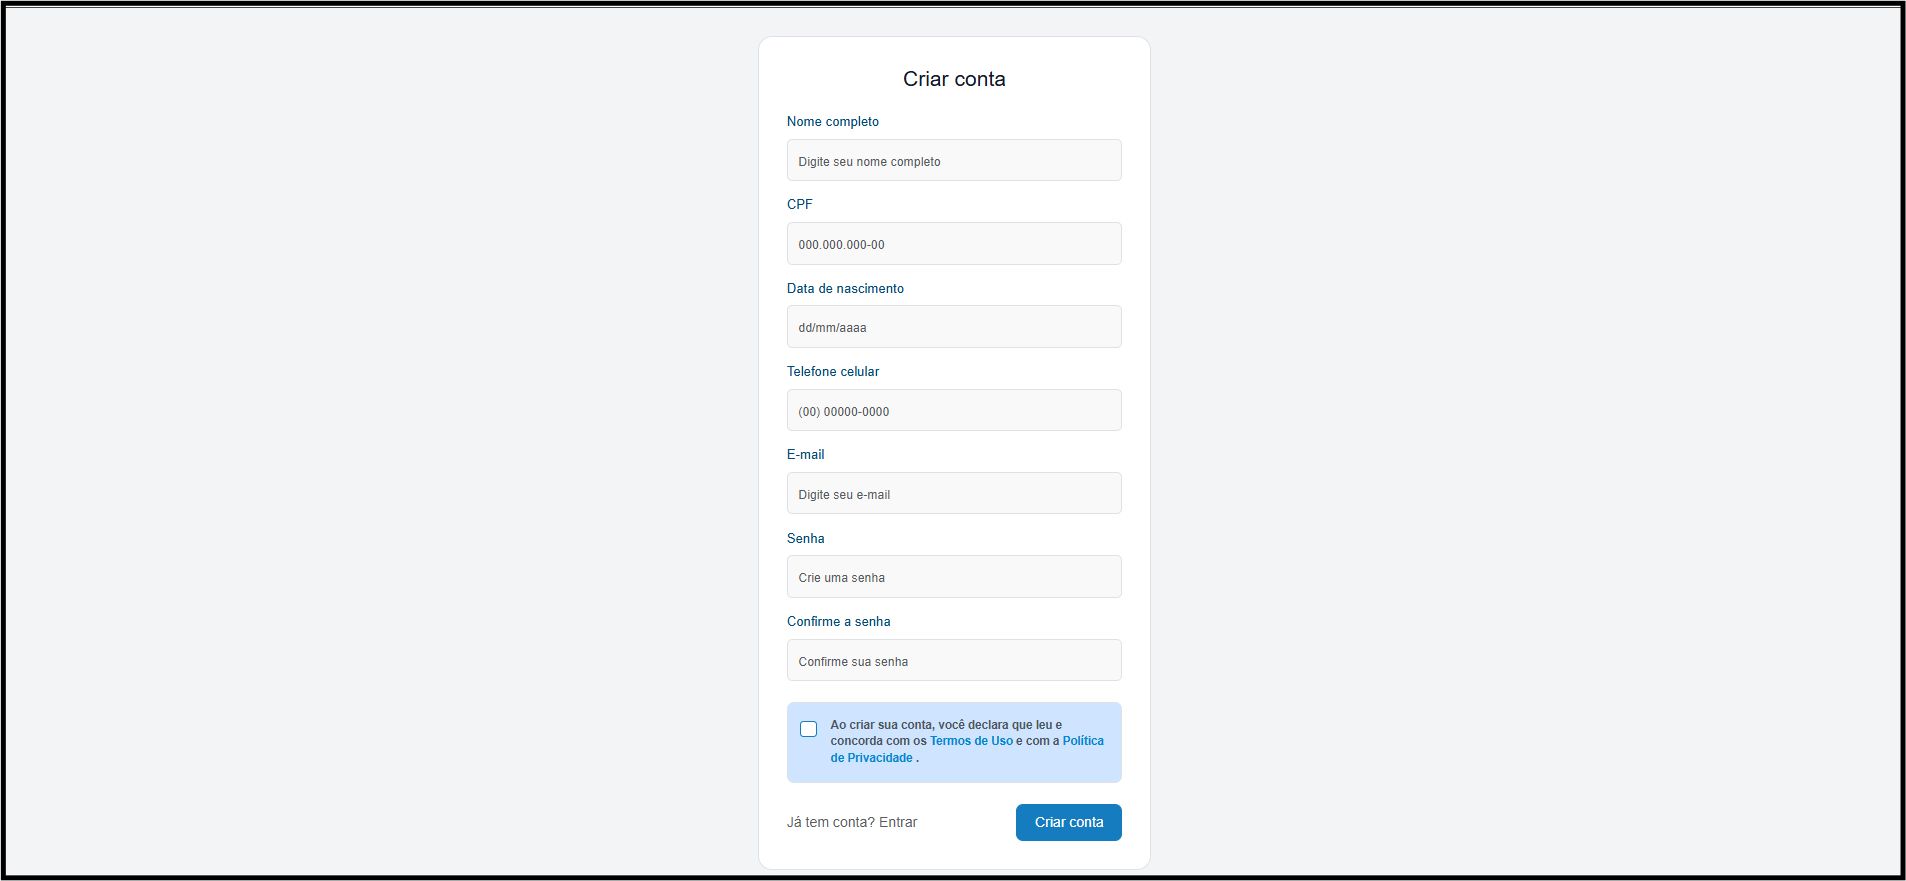
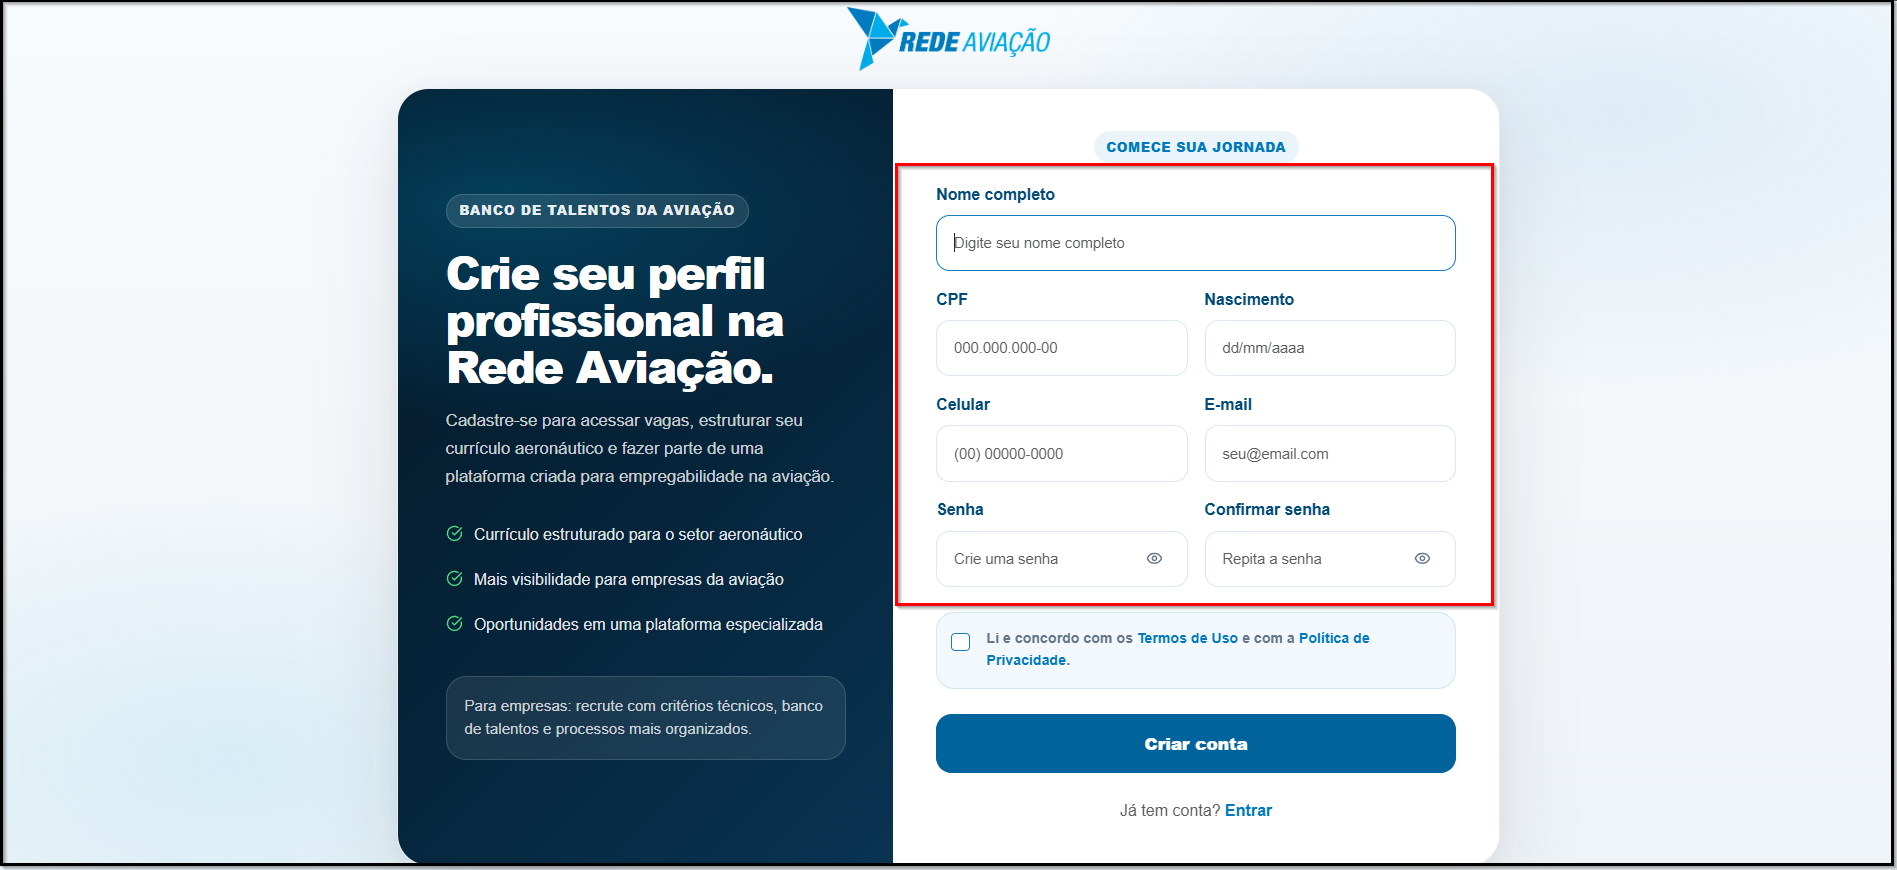
Adição do gerenciamento de perfis na tela de currículo.

diff --git a/docs/candidato/curriculo.md b/docs/candidato/curriculo.md
@@ -10,7 +10,7 @@ Cadastrar currículo para poder se candidatar às vagas.
 
 - Ter uma **conta criada** no sistema (via cadastro ou convite de empresa).
 - Estar logado com um **perfil de candidato**.
-- Acesse a página [Currículo](https://redeaviacao.com.br/dashboard/curr%C3%ADculo)
+- Acesse a página [Currículo](https://redeaviacao.com.br/resume/other/edit)
 
 ---
 
@@ -124,7 +124,10 @@ Cadastrar currículo para poder se candidatar às vagas.
         -  Para visualizar o currículo anexado, basta clicar em ``Visualizar`` no menu direito.
         -  Para trocar o tipo de currículo anexado, basta clicar em **`Trocar tipo de currículo`** e selecionar o tipo desejado (ex.: currículo completo, resumo profissional, etc.).
         -  ![Tela de curriculo](../imagens/Cadastro-curriculo/Substituicao_curriculo.png) 
-
+     
+    - **Gerenciar Perfis**
+        - Caso deseje criar mais perfis de currículo (ex: currículo de Engenheiro e um currículo de Trabalhos em Aeroportos), basta clicar em **`Gerenciar perfis`** e selecionar o perfil desejado. 
+        ![Tela de Gerenciar perfis](../imagens/Cadastro-curriculo/Gerenciar_perfis.png)  
 ---
 
 ### <i data-lucide="wrench" class="icon-lg"></i> Solução de problemas